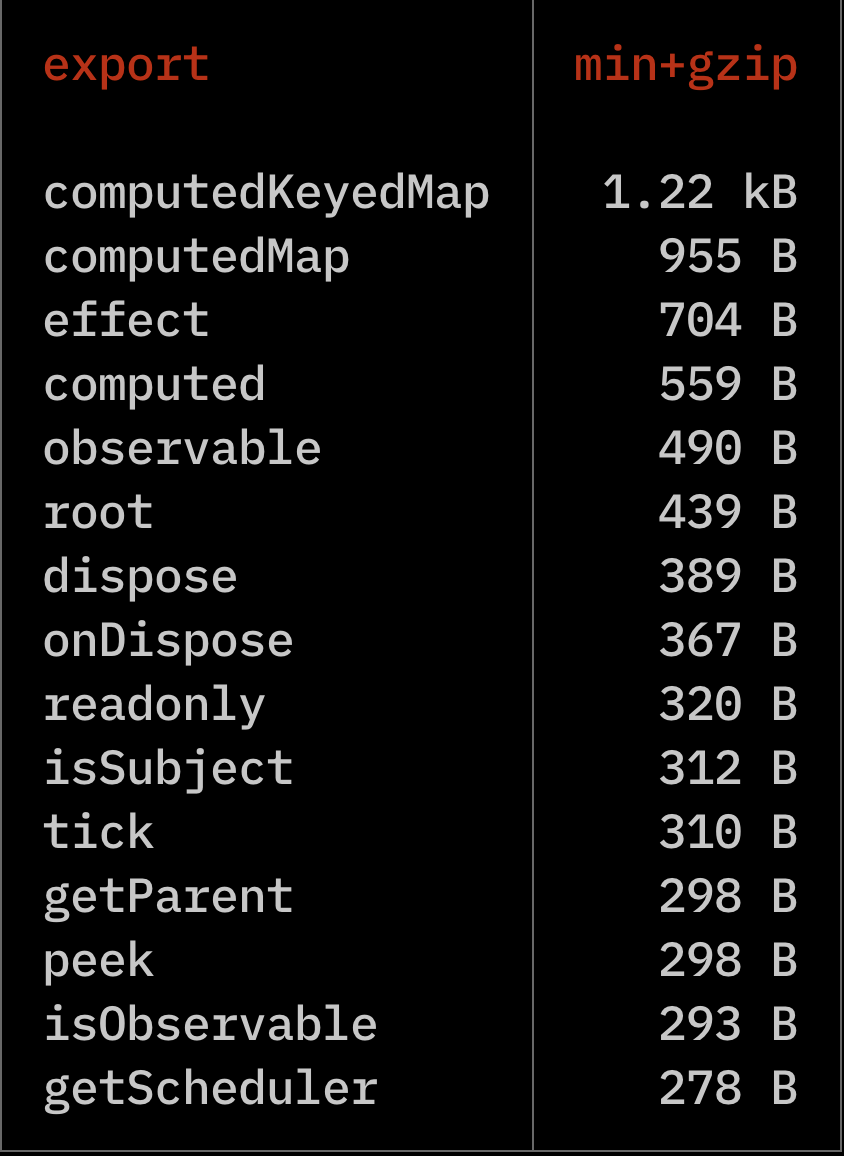
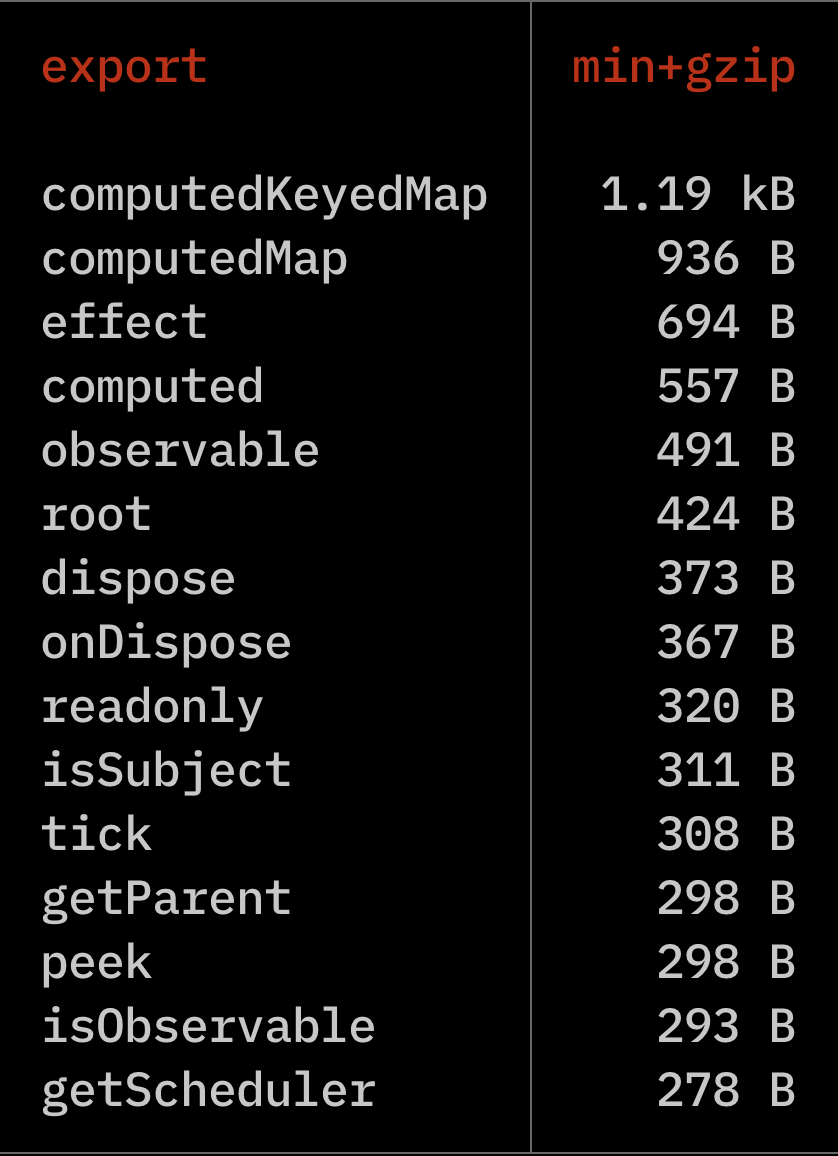
fix: remove redundant `unrefSet` calls

diff --git a/src/observables.ts b/src/observables.ts
@@ -214,10 +214,9 @@ export function dispose(fn: () => void) {
 
   emptyDisposal(fn);
 
-  unrefSet(fn, CHILDREN);
-  unrefSet(fn, DISPOSAL);
-  unrefSet(fn, OBSERVERS);
-
+  fn[CHILDREN] = undefined;
+  fn[DISPOSAL] = undefined;
+  fn[OBSERVERS] = undefined;
   fn[PARENT] = undefined;
   fn[DIRTY] = false;
   fn[DISPOSED] = true;
@@ -562,10 +561,6 @@ function emptyDisposal(node: Node) {
     for (const dispose of node[DISPOSAL]!) dispose();
     node[DISPOSAL]!.clear();
   }
-}
-
-function unrefSet(parent: any, key: symbol) {
-  parent[key] = undefined;
 }
 
 function notEqual(a: unknown, b: unknown) {
